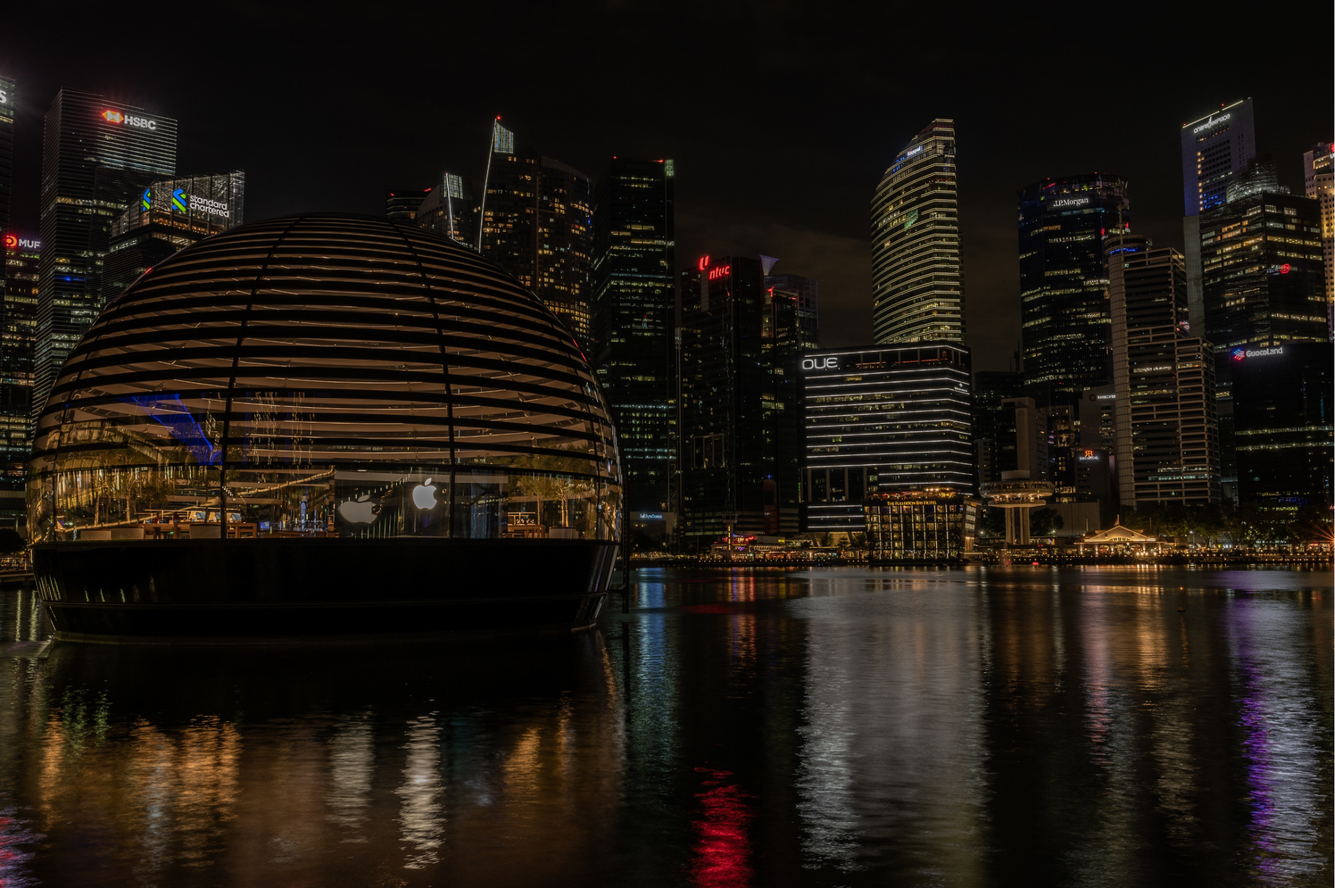
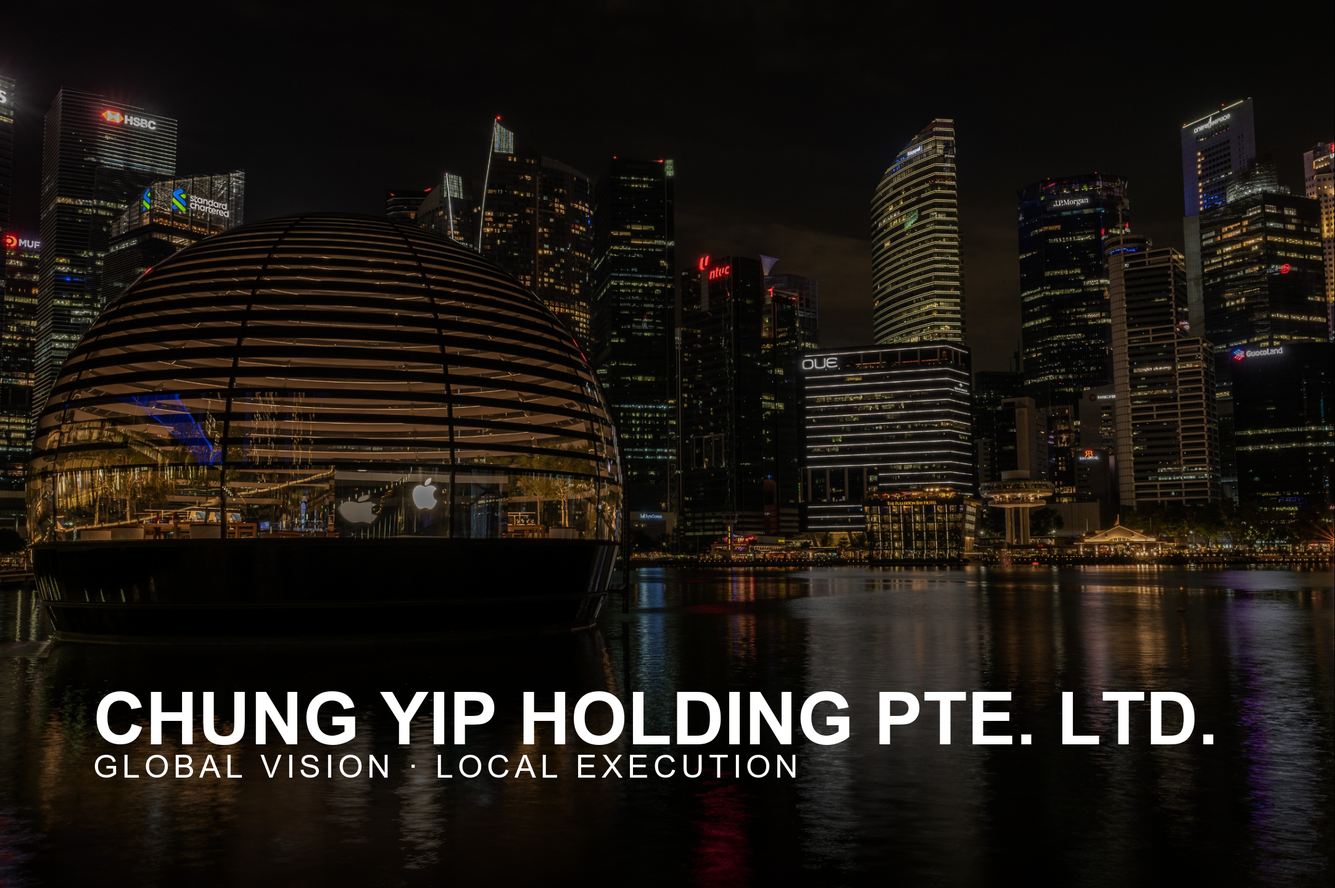
fix(i18n): rebuild locale indexes when data changes, polish company EN copy, optimize about image

diff --git a/frontend/src/lib/catalog.ts b/frontend/src/lib/catalog.ts
@@ -21,7 +21,7 @@ export interface ProductMatch {
   category: { name: string; href: string } | null;
 }
 
-const builtFor = new Map<Locale, CatalogCategory[]>();
+const builtFor = new Map<Locale, ReturnType<typeof catalogData>>();
 const categoryBySlug = new Map<Locale, Map<string, CategoryMatch>>();
 const productBySlug = new Map<
   Locale,
@@ -29,10 +29,10 @@ const productBySlug = new Map<
 >();
 
 function ensureIndexes(locale: Locale): void {
-  if (builtFor.has(locale)) return;
   const current = catalogData(locale);
+  if (builtFor.get(locale) === current) return;
+  builtFor.set(locale, current);
   const collections = [...current.catalogCategories, ...current.channelCategories];
-  builtFor.set(locale, collections);
   const categories = new Map<string, CategoryMatch>();
   const products = new Map<string, { product: CatalogProduct; category: CatalogCategory }>();
   for (const category of collections) {
@@ -88,7 +88,11 @@ export function findCategoryNameForProductId(
     }
   }
   ensureIndexes(locale);
-  for (const category of builtFor.get(locale) ?? []) {
+  const current = builtFor.get(locale);
+  const collections = current
+    ? [...current.catalogCategories, ...current.channelCategories]
+    : [];
+  for (const category of collections) {
     if (category.products.some((p) => String(p.id) === id)) {
       return { name: category.name, href: getCollectionHref(category) };
     }

diff --git a/frontend/src/data/pages-index.ts b/frontend/src/data/pages-index.ts
@@ -15,7 +15,6 @@ const contentPageList = new Map<Locale, ContentPageData[]>();
 const contentPagesByUrlMap = new Map<Locale, Map<string, ContentPageData>>();
 
 function ensureIndexes(locale: Locale): void {
-  if (builtFor.has(locale)) return;
   const current = FAMILY_FILES.flatMap((family) =>
     locale === "en"
       ? loadDataJsonOptional<ContentPageData[]>(
@@ -24,6 +23,7 @@ function ensureIndexes(locale: Locale): void {
         )
       : loadDataJsonOptional<ContentPageData[]>(`pages/${family}.json`, EMPTY_PAGES),
   );
+  if (builtFor.get(locale) === current) return;
   builtFor.set(locale, current);
   const byUrl = new Map<string, ContentPageData>();
   for (const page of current) {

diff --git a/frontend/src/data/products-index.ts b/frontend/src/data/products-index.ts
@@ -12,11 +12,10 @@ const productsBySlugMap = new Map<Locale, Map<string, ProductData>>();
 const productsByIdMap = new Map<Locale, Map<string, ProductData>>();
 
 function ensureIndexes(locale: Locale): void {
-  const cached = builtFor.get(locale);
-  if (cached) return;
   const current = PARTS.map((part) =>
     loadLocalizedData<ProductData[]>(`products/products-${part}.json`, locale),
   );
+  if (builtFor.get(locale) === current) return;
   builtFor.set(locale, current);
   const list = current.flat();
   allProductList.set(locale, list);

diff --git a/frontend/src/lib/catalog-pages.ts b/frontend/src/lib/catalog-pages.ts
@@ -6,8 +6,8 @@ const builtFor = new Map<Locale, CatalogPageData[]>();
 const catalogPageBySlug = new Map<Locale, Map<string, CatalogPageData>>();
 
 function ensureIndexes(locale: Locale): void {
-  if (builtFor.has(locale)) return;
   const current = loadLocalizedData<CatalogPageData[]>("catalog-pages/all.json", locale);
+  if (builtFor.get(locale) === current) return;
   builtFor.set(locale, current);
   const bySlug = new Map<string, CatalogPageData>();
   for (const page of current) {
